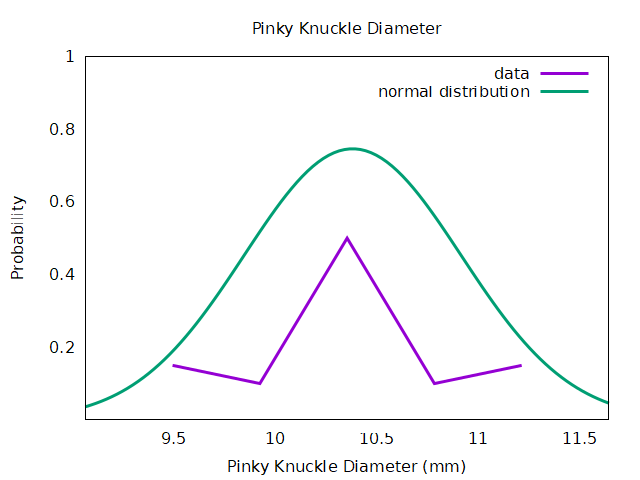
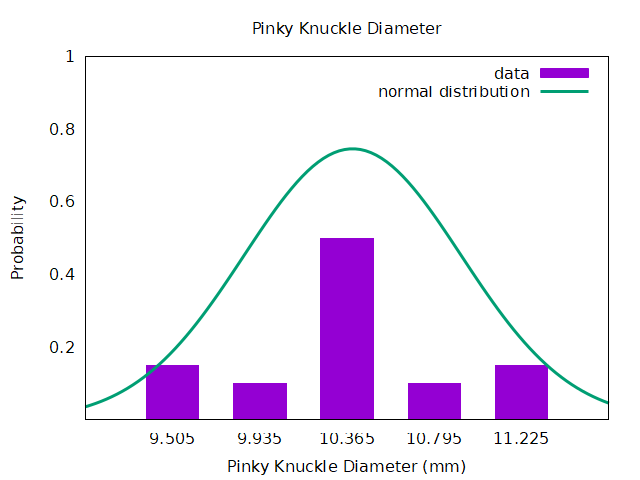
Improve figure

diff --git a/src/hw2/data_plot.c b/src/hw2/data_plot.c
@@ -114,6 +114,7 @@ void save_data_div5_cnt(dataset* pData, char* pFilename){
 }
 
 void save_data_div5_norm(char* pFilename, float x_min, float x_max, float mu, float sigma){
+    // https://gist.github.com/JavierJia/e10f7c7d8ce3c42a6e469316a5738f0f
     FILE* gnuplot = plot_save_open();
     fprintf(gnuplot, "set xrange [%g:%g]\n", x_min, x_max);
     fprintf(gnuplot, "invsqrt2pi = 0.398942280401433\n");
@@ -127,6 +128,8 @@ void save_data_div5_norm(char* pFilename, float x_min, float x_max, float mu, fl
 
 void plot_data_div5(dataset* pData, char* pFilename, char* pTMP1, char* pTMP2){
     // plot data vs normal distribution with 8 parts
+    // https://stackoverflow.com/questions/8855332/line-chart-and-bar-chart-in-gnuplot
+    // http://www.gnuplot.info/docs_4.2/node295.html
     float x_min = pData->split_points[0]-(pData->split_step/2);
     float x_max = pData->split_points[SPLIT_PARTS]+(pData->split_step/2);
     float y_min = 0;
@@ -140,7 +143,10 @@ void plot_data_div5(dataset* pData, char* pFilename, char* pTMP1, char* pTMP2){
     fprintf(gnuplot, "set yrange [%g:%g]\n", y_min, y_max);
     fprintf(gnuplot, "set xlabel 'Pinky Knuckle Diameter (%s)'\n", UNIT);
     fprintf(gnuplot, "set ylabel 'Probability'\n");
-    fprintf(gnuplot, "plot '%s' title 'data' with lines lw 3, '%s' title 'normal distribution' with lines lw 3\n", pTMP1, pTMP2);
+    fprintf(gnuplot, "set boxwidth 0.6 relative\n");
+    fprintf(gnuplot, "set style fill solid\n");
+    fprintf(gnuplot, "set xtics ('%g' %g, '%g' %g, '%g' %g, '%g' %g, '%g' %g)\n", pData->split_points_center[0], pData->split_points_center[0], pData->split_points_center[1], pData->split_points_center[1], pData->split_points_center[2], pData->split_points_center[2], pData->split_points_center[3], pData->split_points_center[3], pData->split_points_center[4], pData->split_points_center[4]);
+    fprintf(gnuplot, "plot '%s' title 'data' with boxes, '%s' title 'normal distribution' with lines lw 3\n", pTMP1, pTMP2);
     plot_close(gnuplot);
     return;
 }

diff --git a/src/hw2/readme.md b/src/hw2/readme.md
@@ -11,5 +11,4 @@ Code is compiled on Windows 11 x64 platform with command ```make all ; ./main.ex
 1. Male / Female data stacked together graph.
 2. Diameter to perimeter conversion.
 3. Add output csv function.
-4. Output image should be bar chart.
-5. Calcuate minimum error boundary.
+4. Calcuate minimum error boundary.
